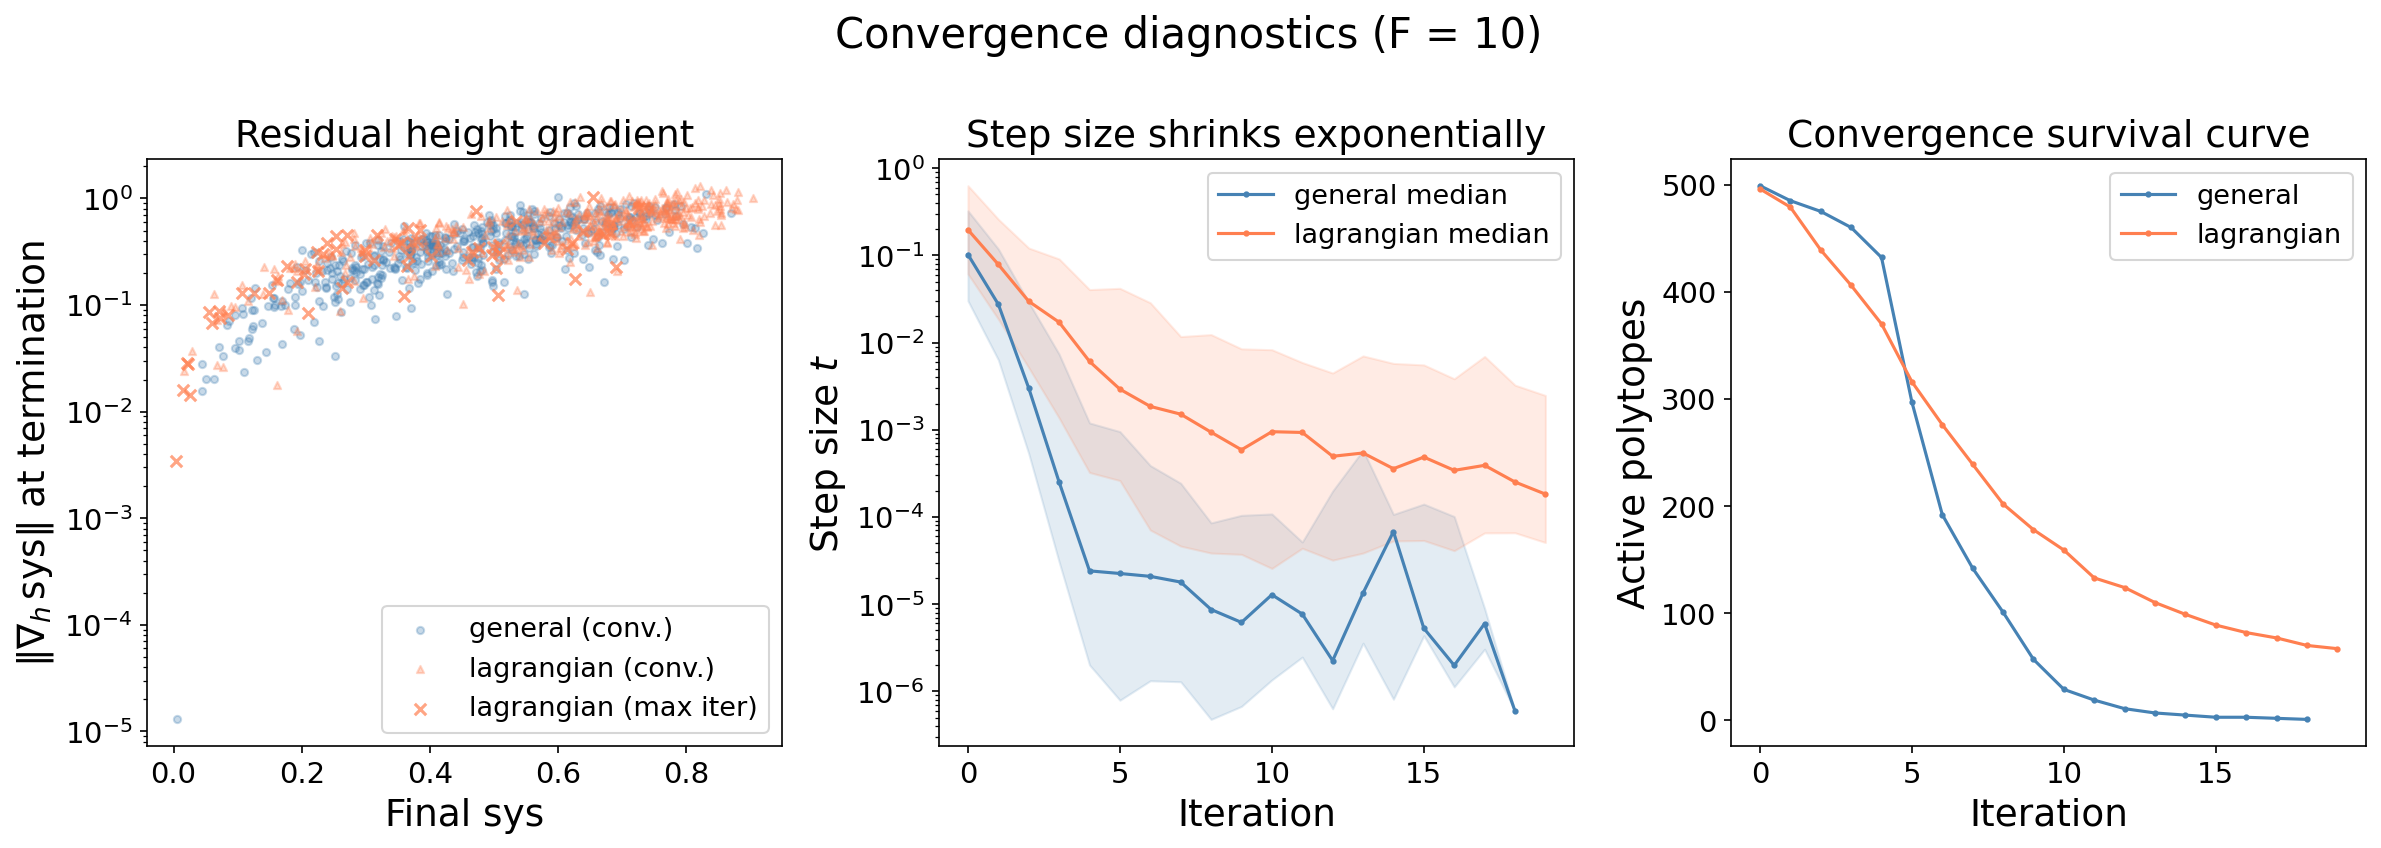
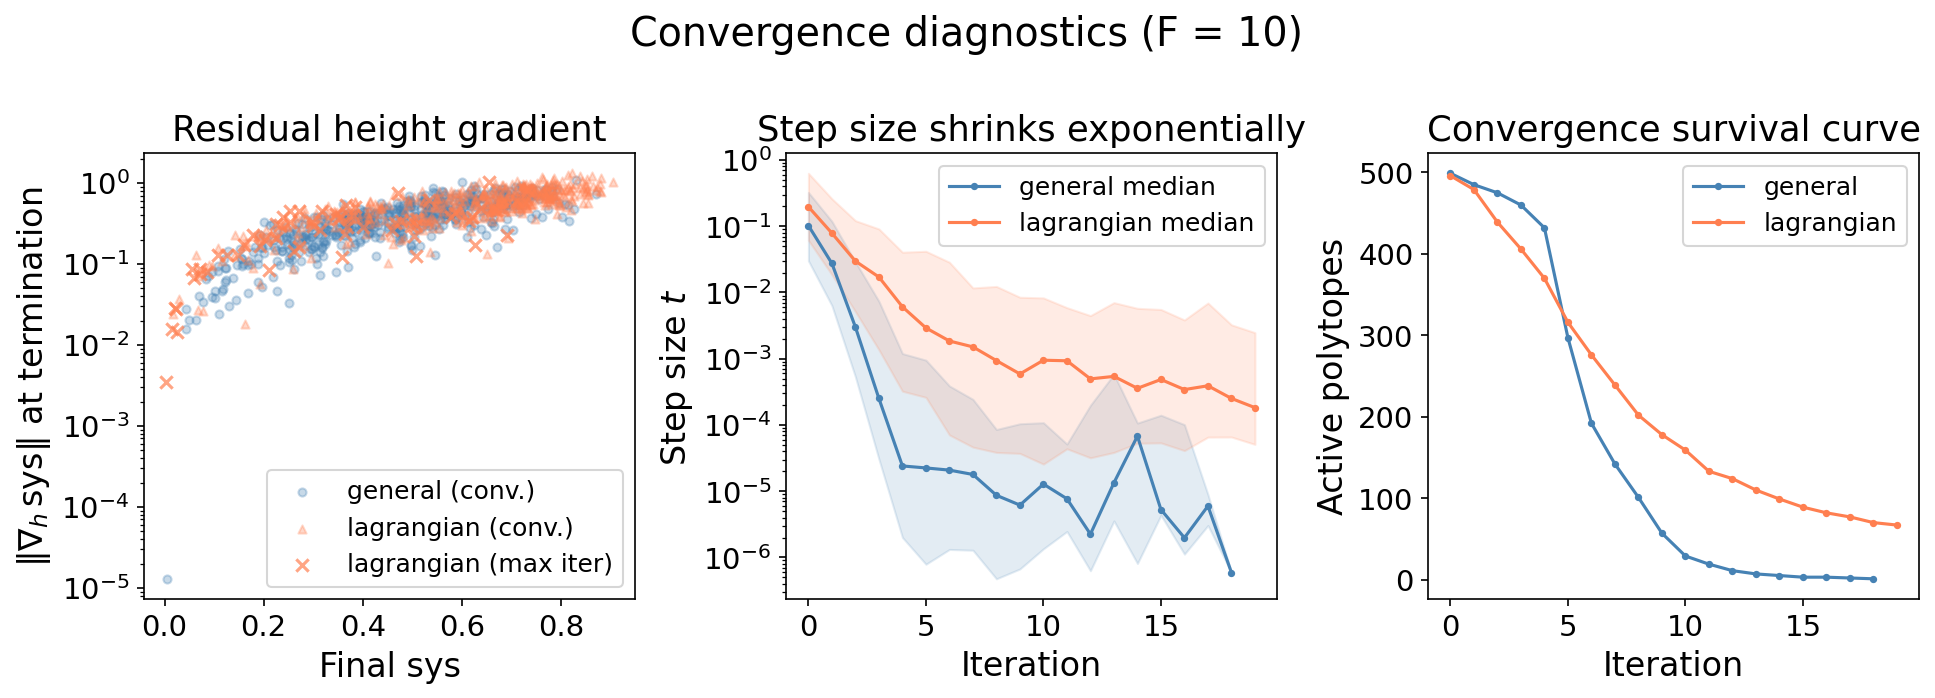
Fix figure font sizes for PDF readability
Convergence 3-panel figure: reduced figsize from (16, 5.5) to (13, 4.5)
and set explicit fontsize on all labels/titles/ticks (16pt labels, 17pt
titles, 14pt ticks, 12pt legends) so they remain readable after the
~2x downscale to \textwidth. Previously fonts rendered at ~5-7pt in PDF.

Scatter figure: reduced figsize from (8, 8) to (6.5, 6.5), nearly
matching \textwidth so minimal downscaling occurs.

diff --git a/experiments/gradient-descent/gradient_descent.py b/experiments/gradient-descent/gradient_descent.py
@@ -17,14 +17,15 @@ from pathlib import Path
 import matplotlib.pyplot as plt
 import numpy as np
 
-# Consistent font sizes for \includegraphics[width=\textwidth] figures
+# Font sizes for figures rendered at \textwidth (~6.3").
+# Figures should use figsize close to rendered width to avoid downscaling.
 plt.rcParams.update({
-    "axes.labelsize": 14,
-    "axes.titlesize": 14,
-    "xtick.labelsize": 11,
-    "ytick.labelsize": 11,
-    "legend.fontsize": 11,
-    "figure.titlesize": 15,
+    "axes.labelsize": 11,
+    "axes.titlesize": 12,
+    "xtick.labelsize": 10,
+    "ytick.labelsize": 10,
+    "legend.fontsize": 10,
+    "figure.titlesize": 13,
 })
 
 EXPERIMENT_DIR = Path(__file__).resolve().parent
@@ -69,7 +70,7 @@ def load_data():
 
 def plot_scatter(summaries):
     """Scatter: starting sys vs final sys, colored by polytope class."""
-    fig, ax = plt.subplots(1, 1, figsize=(8, 8))
+    fig, ax = plt.subplots(1, 1, figsize=(6.5, 6.5))
 
     general = [s for s in summaries if s["polytope_type"] == "general"]
     lagrangian = [s for s in summaries if s["polytope_type"] != "general"]
@@ -101,24 +102,10 @@ def plot_scatter(summaries):
 def plot_convergence(rows, by_name):
     """Combined figure: gradient norms at termination + step size dynamics.
 
-    This 3-panel figure is 16" wide but rendered at ~6.3" (\\textwidth),
-    so a 2.5x downscale requires larger font sizes than the global rcParams.
+    3-panel figure at ~6.3" rendered width. At figsize=(13, 4.5) the ~2x
+    downscale requires boosted fonts to stay readable in print.
     """
-    conv_rc = {
-        "axes.labelsize": 18,
-        "axes.titlesize": 18,
-        "xtick.labelsize": 14,
-        "ytick.labelsize": 14,
-        "legend.fontsize": 13,
-        "figure.titlesize": 20,
-    }
-    with plt.rc_context(conv_rc):
-        _plot_convergence_impl(rows, by_name)
-
-
-def _plot_convergence_impl(rows, by_name):
-    """Inner implementation using caller's rc_context."""
-    fig, axes = plt.subplots(1, 3, figsize=(16, 5.5))
+    fig, axes = plt.subplots(1, 3, figsize=(13, 4.5))
 
     # Panel 1: height gradient norm vs final sys
     ax = axes[0]
@@ -146,18 +133,19 @@ def _plot_convergence_impl(rows, by_name):
 
         conv = ~hit_maxiter
         ax.scatter(final_sys[conv], final_grad[conv],
-                   alpha=0.3, color=color, marker=marker, s=12,
+                   alpha=0.3, color=color, marker=marker, s=15,
                    label=f"{ptype} (conv.)")
         if hit_maxiter.any():
             ax.scatter(final_sys[hit_maxiter], final_grad[hit_maxiter],
-                       alpha=0.7, color=color, marker="x", s=30,
+                       alpha=0.7, color=color, marker="x", s=35,
                        label=f"{ptype} (max iter)")
 
-    ax.set_xlabel("Final sys")
-    ax.set_ylabel(r"$\|\nabla_h\,\mathrm{sys}\|$ at termination")
+    ax.set_xlabel("Final sys", fontsize=16)
+    ax.set_ylabel(r"$\|\nabla_h\,\mathrm{sys}\|$ at termination", fontsize=16)
     ax.set_yscale("log")
-    ax.set_title("Residual height gradient")
-    ax.legend()
+    ax.set_title("Residual height gradient", fontsize=17)
+    ax.tick_params(labelsize=14)
+    ax.legend(fontsize=12)
 
     # Panel 2: step size evolution (median with IQR)
     ax = axes[1]
@@ -176,15 +164,16 @@ def _plot_convergence_impl(rows, by_name):
         p25 = [np.percentile(by_iter[i], 25) for i in iters_sorted]
         p75 = [np.percentile(by_iter[i], 75) for i in iters_sorted]
 
-        ax.plot(iters_sorted, medians, color=color, marker=".", markersize=4,
+        ax.plot(iters_sorted, medians, color=color, marker=".", markersize=5,
                 label=f"{ptype} median")
         ax.fill_between(iters_sorted, p25, p75, color=color, alpha=0.15)
 
     ax.set_yscale("log")
-    ax.set_xlabel("Iteration")
-    ax.set_ylabel("Step size $t$")
-    ax.set_title("Step size shrinks exponentially")
-    ax.legend()
+    ax.set_xlabel("Iteration", fontsize=16)
+    ax.set_ylabel("Step size $t$", fontsize=16)
+    ax.set_title("Step size shrinks exponentially", fontsize=17)
+    ax.tick_params(labelsize=14)
+    ax.legend(fontsize=12)
 
     # Panel 3: survival curve (active polytopes per iteration)
     ax = axes[2]
@@ -200,14 +189,15 @@ def _plot_convergence_impl(rows, by_name):
 
         iters_sorted = sorted(by_iter.keys())
         counts = [by_iter[i] for i in iters_sorted]
-        ax.plot(iters_sorted, counts, color=color, marker=".", markersize=4, label=ptype)
+        ax.plot(iters_sorted, counts, color=color, marker=".", markersize=5, label=ptype)
 
-    ax.set_xlabel("Iteration")
-    ax.set_ylabel("Active polytopes")
-    ax.set_title("Convergence survival curve")
-    ax.legend()
+    ax.set_xlabel("Iteration", fontsize=16)
+    ax.set_ylabel("Active polytopes", fontsize=16)
+    ax.set_title("Convergence survival curve", fontsize=17)
+    ax.tick_params(labelsize=14)
+    ax.legend(fontsize=12)
 
-    fig.suptitle("Convergence diagnostics (F = 10)", y=1.02)
+    fig.suptitle("Convergence diagnostics (F = 10)", fontsize=19, y=1.02)
     fig.tight_layout()
 
     out = EXPERIMENT_DIR / "gradient_descent_convergence.png"
